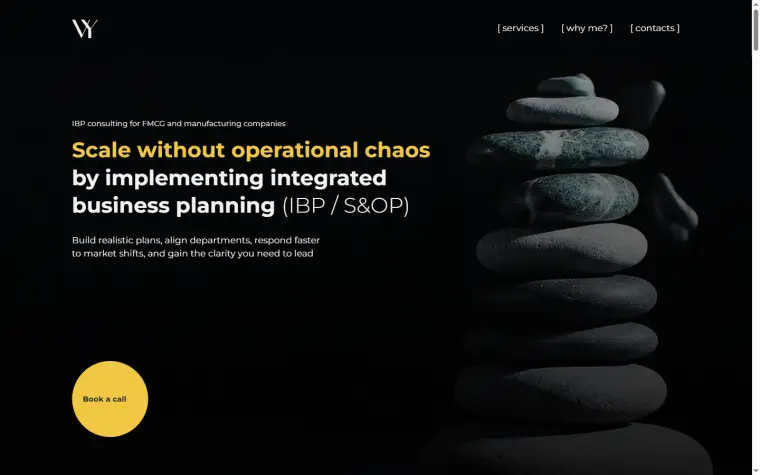
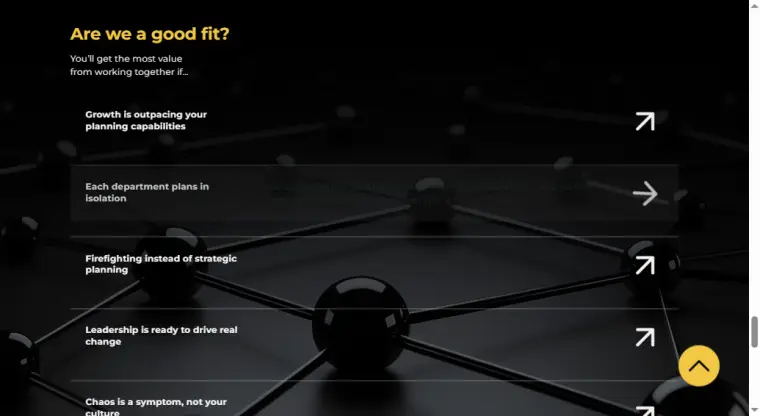
IBP на власний домен, UnlockYourself прибрано, зайвий тег виправлено
- кейс IBP Consulting тепер веде на viktoriaibp.com замість тимчасової
  версії на GitHub Pages; превʼю перезнято з реального сайту
- кейс UnlockYourself прибрано разом із його картинкою
- кейси перенумеровано підряд: 01-05
- прибрано зайвий закриваючий тег після меню, що лишився від
  перебудови: тепер розмітка збалансована, 60 на 60

diff --git a/index.html b/index.html
@@ -15,7 +15,7 @@
 <link rel="preconnect" href="https://fonts.googleapis.com">
 <link rel="preconnect" href="https://fonts.gstatic.com" crossorigin>
 <link href="https://fonts.googleapis.com/css2?family=Geologica:wght@400;600;800&family=Cormorant:ital,wght@1,300;1,400&family=Wix+Madefor+Display:wght@400;500;700&family=JetBrains+Mono:wght@400&display=swap" rel="stylesheet">
-<link href="css/style.css?v=22" rel="stylesheet">
+<link href="css/style.css?v=23" rel="stylesheet">
 </head>
 <body>
 
@@ -104,7 +104,6 @@
 
   </div>
 </div>
-</div>
 
 <!-- ============================ ПЕРШИЙ ЕКРАН ============================ -->
 <section id="hero" class="section dark hero">
@@ -180,7 +179,7 @@
         <img class="case__thumb" src="images/cases/clg.webp" alt="" loading="lazy" width="64">
       </a>
 
-      <a class="case" href="https://fominadesigns.github.io/VS-site/" target="_blank" rel="noopener"
+      <a class="case" href="https://viktoriaibp.com/" target="_blank" rel="noopener"
          data-preview="images/cases/ibp.webp">
         <span class="case__num">02</span>
         <span>IBP Consulting</span>
@@ -194,23 +193,16 @@
         <img class="case__thumb" src="images/cases/gbgym.webp" alt="" loading="lazy" width="64">
       </a>
 
-      <a class="case" href="https://fominadesigns.github.io/unlockyourselfmeditation/index.html" target="_blank" rel="noopener"
-         data-preview="images/cases/unlock.webp">
-        <span class="case__num">04</span>
-        <span>UnlockYourself</span>
-        <img class="case__thumb" src="images/cases/unlock.webp" alt="" loading="lazy" width="64">
-      </a>
-
       <a class="case" href="https://fominadesigns.github.io/temp-dnipra-preview/" target="_blank" rel="noopener"
          data-preview="images/cases/tempdnipra.webp">
-        <span class="case__num">05</span>
+        <span class="case__num">04</span>
         <span>Темп Дніпра</span>
         <img class="case__thumb" src="images/cases/tempdnipra.webp" alt="" loading="lazy" width="64">
       </a>
 
       <a class="case" href="https://fominadesigns.github.io/poryadok-landing/" target="_blank" rel="noopener"
          data-preview="images/cases/poryadok.webp">
-        <span class="case__num">06</span>
+        <span class="case__num">05</span>
         <span>Порядок</span>
         <img class="case__thumb" src="images/cases/poryadok.webp" alt="" loading="lazy" width="64">
       </a>

diff --git a/content/profile.md b/content/profile.md
@@ -1,0 +1,108 @@
+# Профіль автора — Fomina Designs
+
+Оновлено: 2026-09-02
+Джерело: `fominadesigns-ca-brief.md` + діалог. Порожні місця позначені `[??? — уточнити]`.
+
+## Позиціонування
+
+- **Продукт:** дизайн і розробка сайтів під ключ, Figma → Webflow.
+- **Продаємо не сайт, а воронку:** дослідження → структура під заявки → дизайн →
+  квіз як лід-магніт → підключення форм до CRM/Telegram → аналітика.
+- **Чек:** від 15 000 грн, орієнтир 40 000+ грн.
+- **Кому НЕ підходить:** б'юті-майстри-одиночки, репетитори, дрібний роздріб,
+  стартапи «на ідеї», масмаркет-магазини.
+- Не продаємо курси й навчання.
+
+## Ніші
+
+**Фокус:**
+1. B2B-консалтинг і експерти з дорогими продуктами (менторські програми від 20–30 тис. грн,
+   бізнес-коучі, психотерапевти з довгими програмами) — найближче до наявного кейса.
+2. Приватна медицина та естетика — стоматологія, косметологія, ін'єкційна естетика.
+   Чек їхнього клієнта 5–50 тис. грн, уже платять за Google Ads, критична потреба в довірі.
+3. Дизайн інтер'єру, архітектура, ремонти під ключ — чек проєкту від 100 тис. грн,
+   візуальний продукт, самі цінують дизайн.
+
+**Другорядні:** B2B-послуги (юридичні, бухгалтерські фірми, агенції), преміум-івенти та локації.
+
+## Ідеальний клієнт
+
+- Власник бізнесу або маркетолог, 30–45 років.
+- Київ, Львів, Дніпро, Одеса або українці за кордоном; можлива робота англійською.
+- Бізнесу 2+ роки, команда від 2–3 осіб.
+- **Головний маркер платоспроможності: вже платить за трафік** (таргет або Google Ads).
+- Часто вже є сайт — шаблонний, зроблений 3–5 років тому.
+- Веде Instagram якісно, вкладається у фото/відео.
+- Рішення ухвалює сам, за 1–3 дні.
+
+**Що купує насправді:** різницю між «нас плутають із дешевими» і «до нас приходять
+готові платити». Статус + передбачуваний потік заявок.
+
+### Як формулює проблему своїми словами
+1. «Заявки є, але не ті» — не «заявок нема взагалі». Ключова фраза сегмента.
+2. «Нас плутають із дешевими».
+3. «Чому так дорого?»
+4. «Чи не зникнете після здачі?»
+5. «Я не розумію, за що плачу.»
+6. `[??? — ще 5 фраз із реального листування й дзвінків]`
+
+### Заперечення (знімати і на сайті, і в контенті)
+- «А чому так дорого»
+- «Чи не зникнете після здачі»
+- «Я не розумію, за що плачу»
+
+## Банк фактури
+
+### Кейси
+- **Viktoriia Yashchenko — https://viktoriaibp.com/** — IBP/S&OP-консалтинг для FMCG
+  та виробничих компаній. Аудиторія: CEO, CFO, COO виробничих холдингів.
+  Регалії клієнтки: 18+ років досвіду, INSEAD Executive MBA, ACCA, APICS,
+  побудова IBP-департаменту в MHP SE.
+  Сайт зроблено як робочу воронку: біль → рішення (3 pillars) → послуги → результати →
+  безкоштовна 3-денна діагностика → дзвінок. Є og-теги, meta-description, ключові слова.
+  - Було: `[??? — що було до, який сайт або його відсутність]`
+  - Стало: `[??? — заявки, дзвінки, будь-яка цифра після запуску]`
+
+- `[??? — інші кейси профільного рівня. Наразі в портфоліо доказ рівня один]`
+
+### Провали й уроки
+- `[??? — проєкт, який пішов не так: що зламалось, чого навчило]`
+
+### Сильні думки (те, з чим сперечаються)
+- `[??? — у чому не згодна з більшістю колег]`
+
+## Смак
+- Люблю: `[??? — 3 сайти й конкретно чому]`
+- Дратує: `[??? — 3 речі у веб-дизайні]`
+- Інструменти: Figma, Webflow. `[??? — решта щоденного стека]`
+
+## Як я говорю
+`[??? — три абзаци власного тексту дослівно. Еталон голосу для всіх згенерованих текстів]`
+
+## Формат
+- Мова акаунта: `[??? — українська?]`
+- Годин на тиждень на контент: `[???]`
+- У кадрі: **обличчя поки не знімає** — соромно. Стартовий формат: запис екрана + голос за кадром.
+  Присутність в акаунті — через стилізовані ШІ-портрети зі своїх фото. Див. `no-face-video.md`, `ai-photo.md`.
+- Табу: `[???]`
+
+## Точка старту (2026-09-02)
+- Підписників: `[???]` / охоплення поста: `[???]` / рилса: `[???]`
+- Звідки приходять клієнти зараз: `[???]`
+- Що пробувала і не спрацювало: `[???]`
+- Мета на 6 місяців: `[???]`
+
+## Ринок (Україна, 2026)
+Ціни: landing від $900, корпоративний від $1500, магазин від $2500.
+Середня вартість корпоративного сайту 18 000–60 000 грн. Студійний сегмент базового
+корпоративного — $2 500–7 000.
+Джерело: Опендатабот, VKURSI, галузеві публікації (див. бриф, розділ 6).
+
+## Робочий контекст
+Власний сайт має техборг, зафіксований аудитом: непрацюючі пункти меню
+(«Про мене», «Ціни», «Алгоритм роботи» ведуть у `#`), `<html lang="en">` при
+україномовному контенті, немає meta description, форма квізу без бекенду,
+єдиний канал зв'язку — Telegram, важка картинка CLG011.png, друкарська помилка
+«Алгоитм роботи». Квіз існує, але з головної на нього немає жодного посилання.
+
+Це не лише борг — це матеріал для контенту. Див. нижче.
